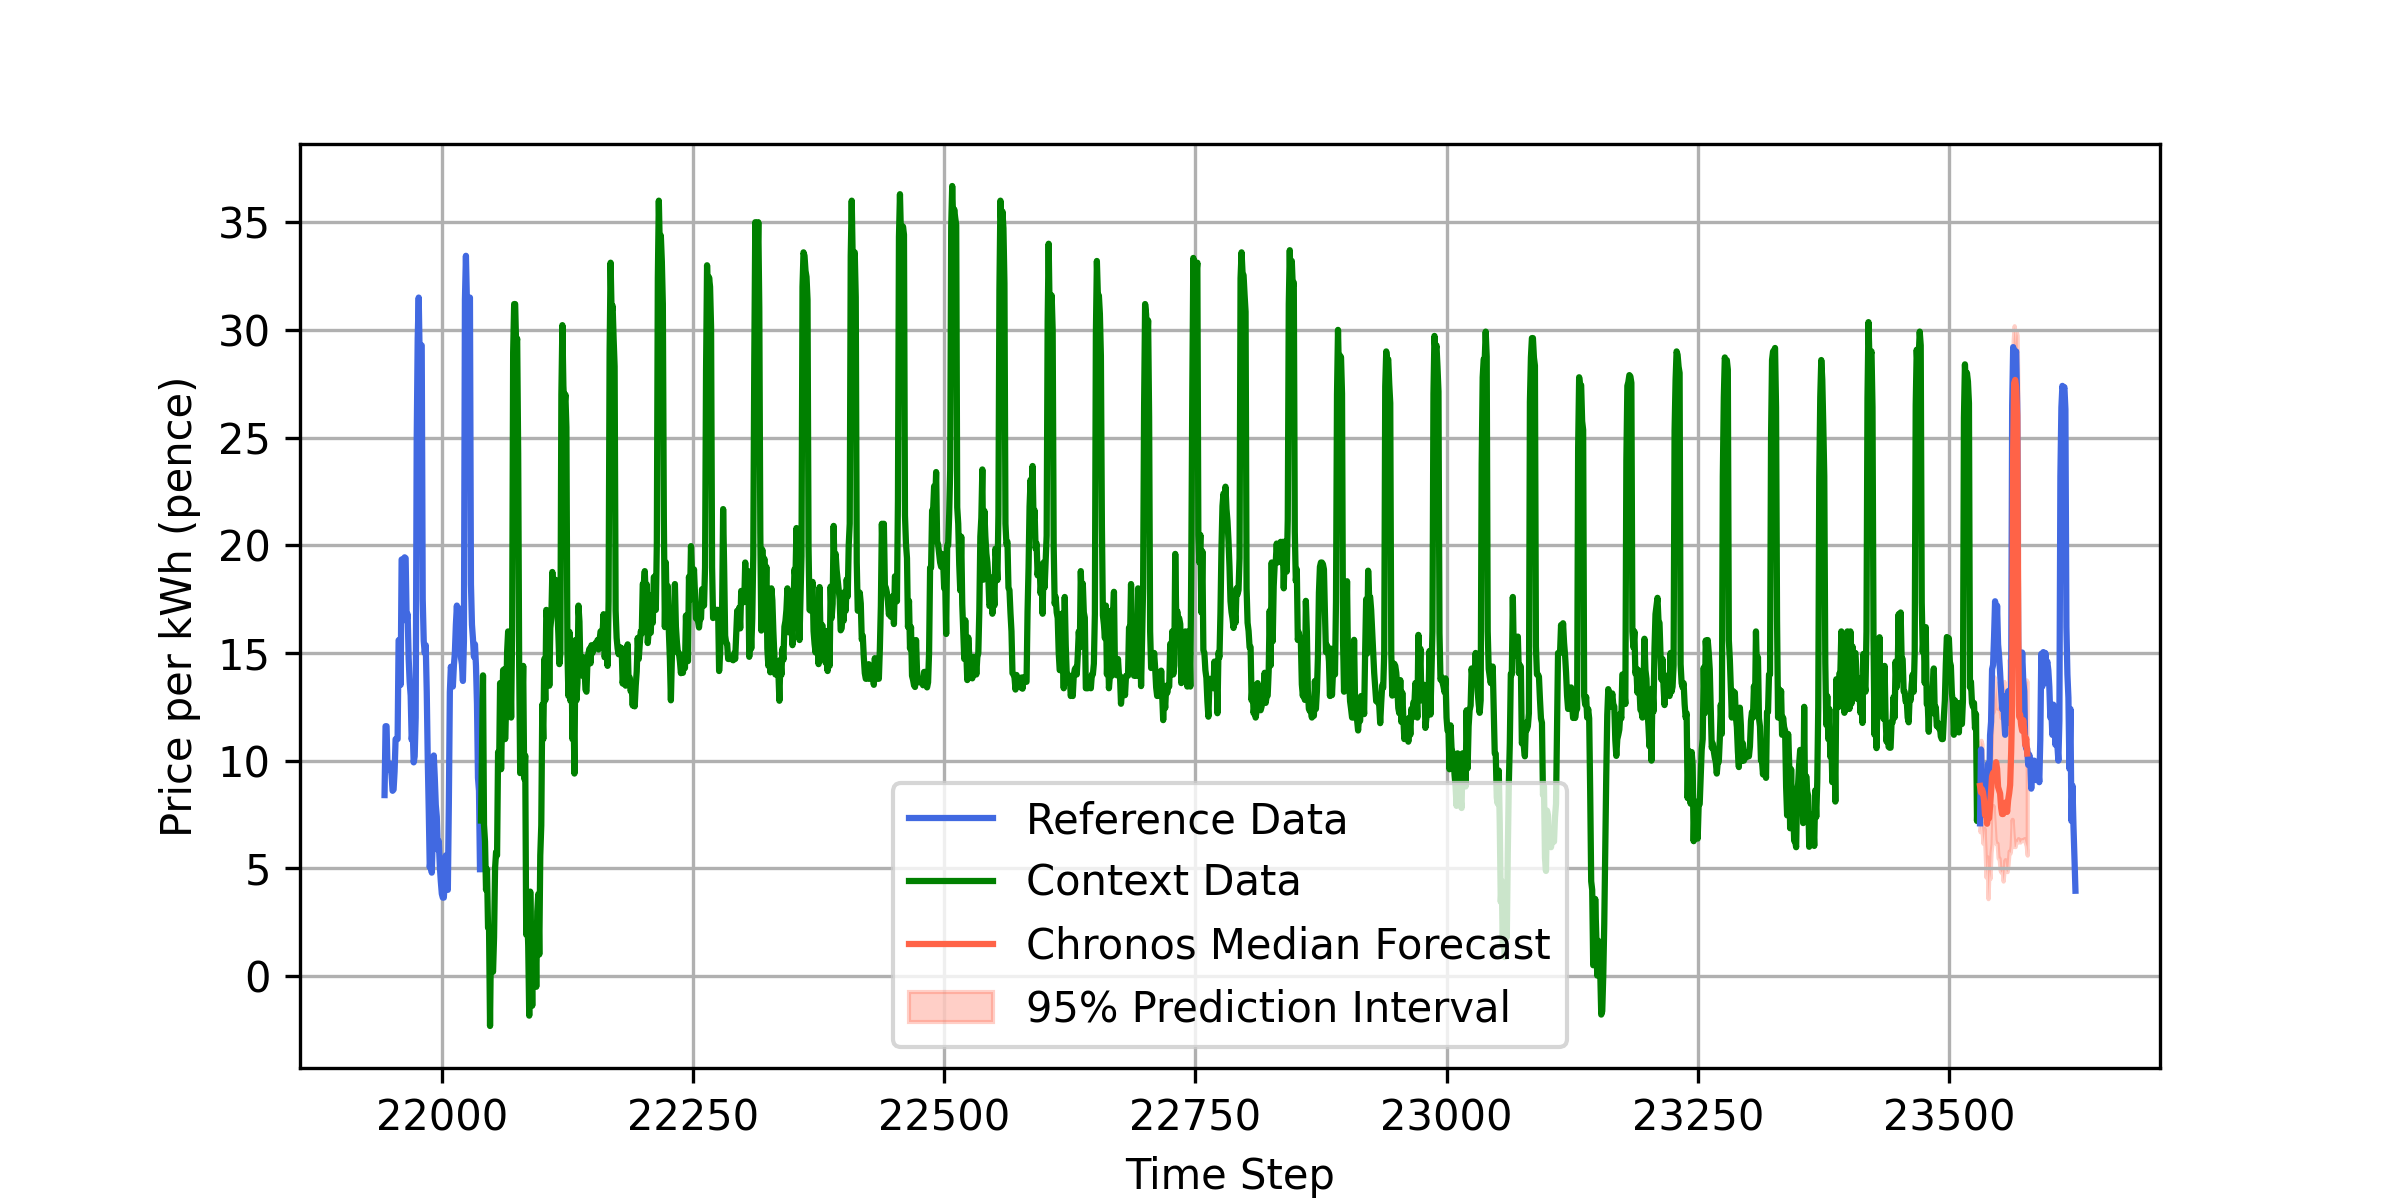
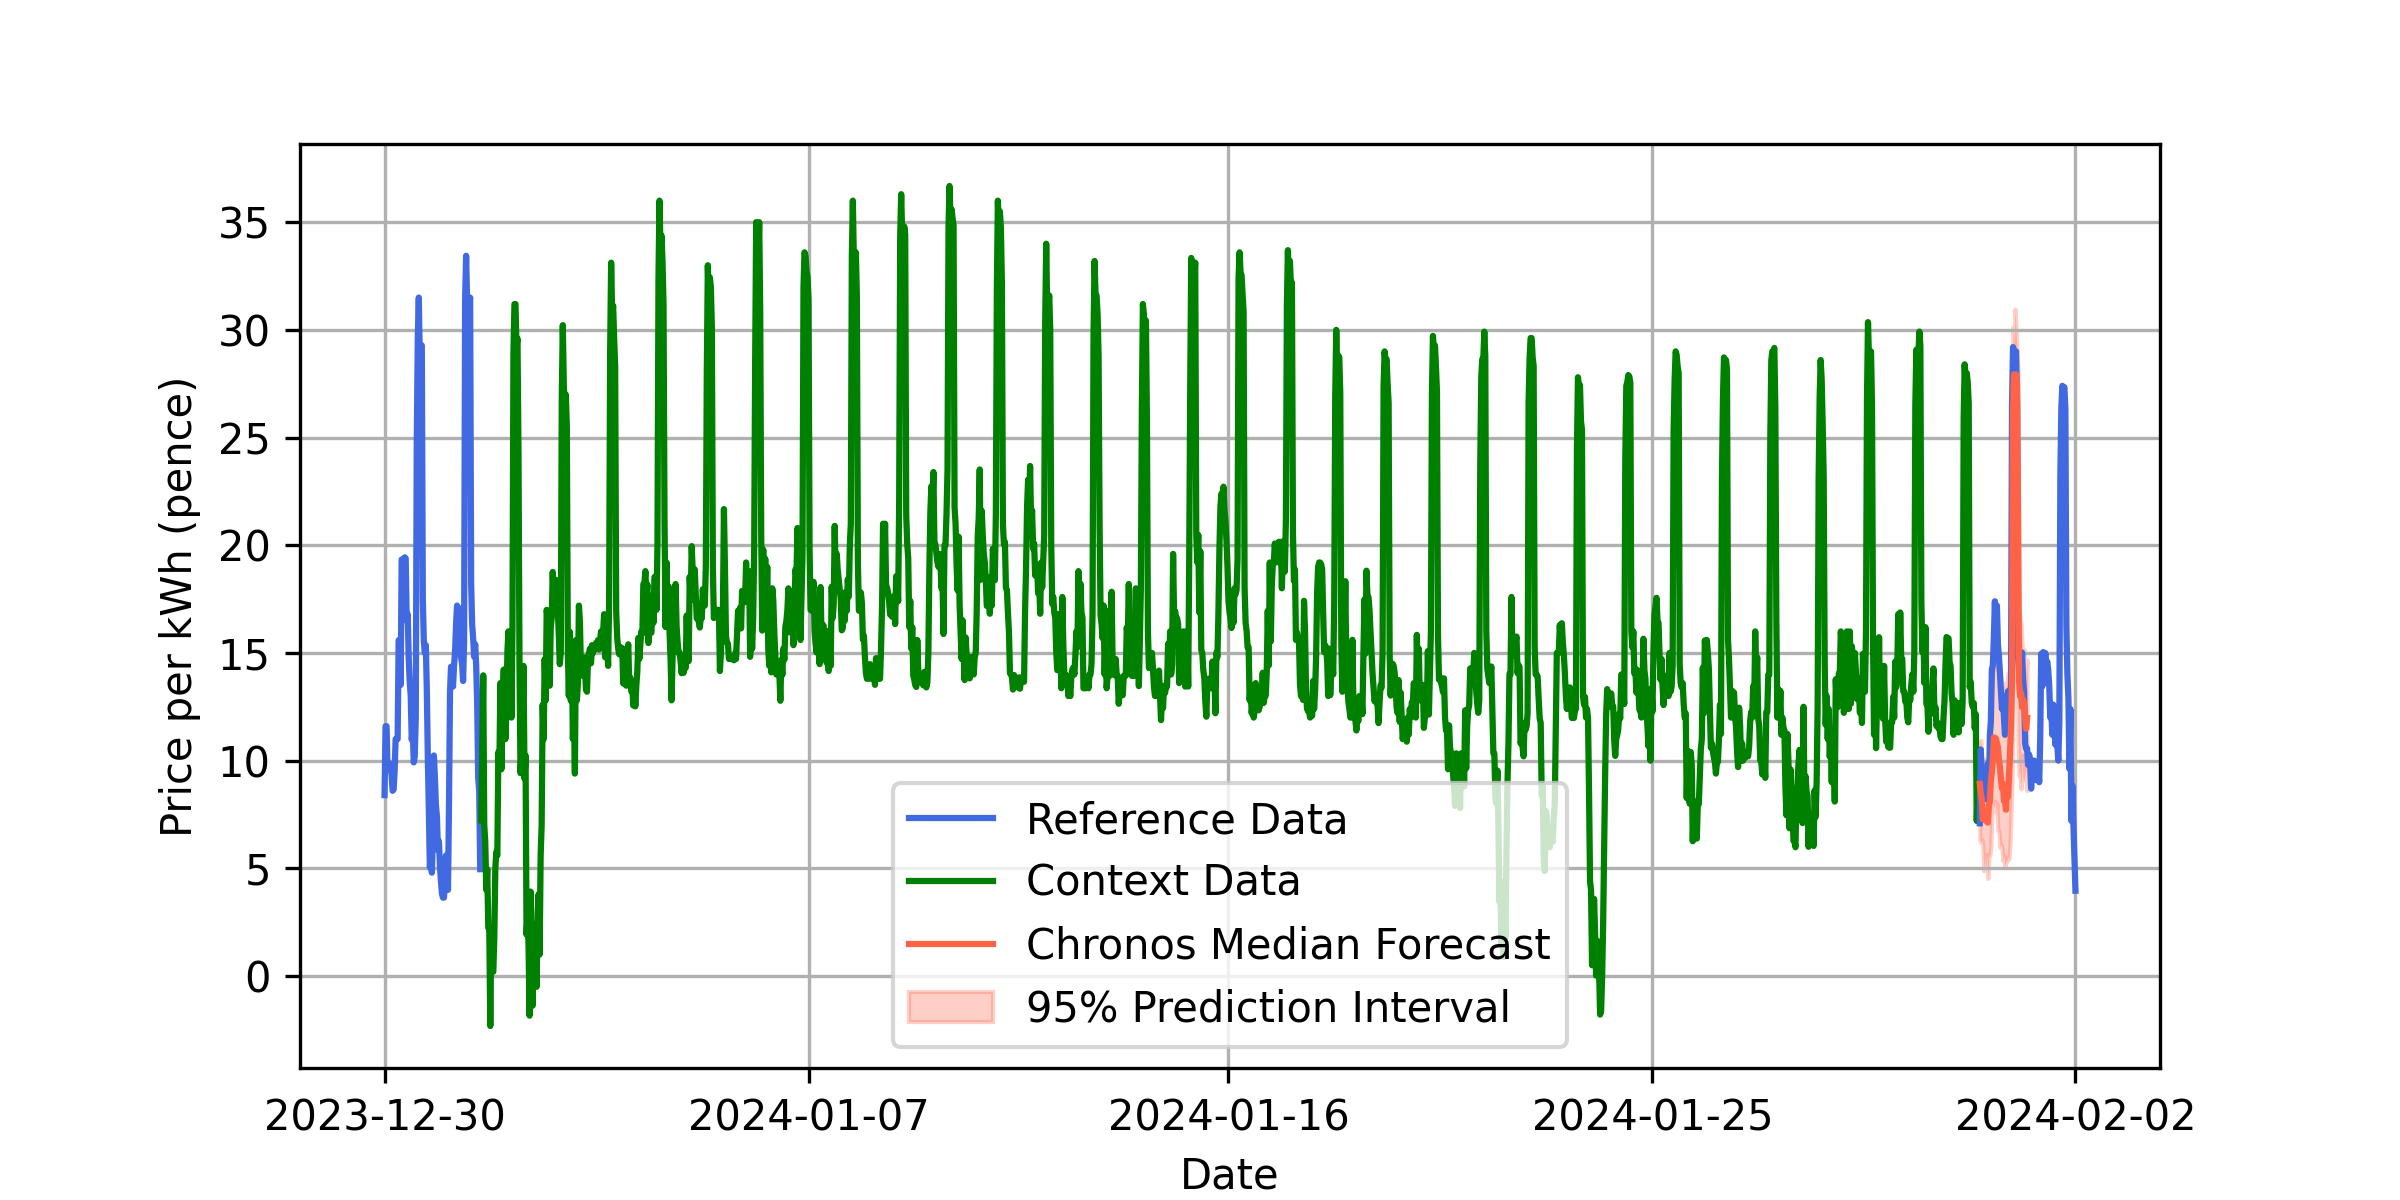
Added axes labels for plots

diff --git a/wrappers/arima_wrapper.py b/wrappers/arima_wrapper.py
@@ -1,6 +1,8 @@
 import matplotlib.pyplot as plt
 import pmdarima as pm
 import statsmodels.api as sm
+import utils
+import matplotlib.dates as mdates
 
 def arima_predict(df, column, training_start_index, training_end_index, prediction_length, plot=True, run_name=None):
     """
@@ -54,24 +56,52 @@ def arima_predict(df, column, training_start_index, training_end_index, predicti
 
     # Plot the original data and the forecast
     if plot:
-        # Plot a window of actual data two prediction windows to each side
+    # Define indices for plotting
         n = len(df)
         left_most_index = max(0, training_start_index - 2 * prediction_length)
         right_most_index = min(n, training_end_index + 2 * prediction_length)
+        
+        # Map indices to dates
+        reference_dates = [utils.map_timestep_to_date(idx) for idx in range(left_most_index, training_start_index)]
+        context_dates = [utils.map_timestep_to_date(idx) for idx in range(training_start_index, training_end_index)]
+        future_dates = [utils.map_timestep_to_date(idx) for idx in range(training_end_index, right_most_index)]
+        prediction_dates = [utils.map_timestep_to_date(idx) for idx in range(training_end_index, training_end_index + prediction_length)]
+        
+        # Combine all dates together to calculate tick positions
+        all_dates = reference_dates + context_dates + future_dates
 
+        # Calculate positions for 0%, 25%, 50%, 75%, and 100% of the date range
+        num_dates = len(all_dates)
+        ticks_positions = [
+            all_dates[0],                           # 0%
+            all_dates[num_dates // 4],              # 25%
+            all_dates[num_dates // 2],              # 50%
+            all_dates[3 * num_dates // 4],          # 75%
+            all_dates[-1]                           # 100%
+        ]
+        
+        # Plotting with dates on the x-axis
         plt.figure(figsize=(10, 5))
-        # plt.title("ARIMA Forecast")
-        plt.plot(df[column][left_most_index: training_start_index], color="royalblue", label="Historical Data")
-        plt.plot(df[column][training_start_index: training_end_index], color="green", label="Context Data")
-        plt.plot(df[column][forecast_index[0]:right_most_index], color="royalblue",)
-        plt.plot(forecast_index, arima_forecast, color="tomato", label="ARIMA Median Forecast")
-        plt.fill_between(forecast_index, conf_int.iloc[:, 0], conf_int.iloc[:, 1], color='tomato', alpha=0.2, label="95% Confidence Interval")
+        plt.plot(reference_dates, df[column][left_most_index:training_start_index], color="royalblue", label="Historical Data")
+        plt.plot(context_dates, df[column][training_start_index:training_end_index], color="green", label="Context Data")
+        plt.plot(future_dates, df[column][training_end_index:right_most_index], color="royalblue")
+        plt.plot(prediction_dates, arima_forecast, color="tomato", label="ARIMA Median Forecast")
+        plt.fill_between(prediction_dates, conf_int.iloc[:, 0], conf_int.iloc[:, 1], color='tomato', alpha=0.2, label="95% Confidence Interval")
+        
+        # Add legend, labels, and grid
         plt.legend()
-        plt.xlabel("Time Step")
-        plt.ylabel("Price per kWh (pence)")        
+        plt.xlabel("Date")
+        plt.ylabel("Price per kWh (pence)")
+        plt.grid()
+
+        # Set custom x-ticks at the calculated positions (5 ticks)
+        plt.gca().set_xticks(ticks_positions)
+
+        # Format the x-axis with date labels
+        plt.gca().xaxis.set_major_formatter(mdates.DateFormatter('%Y-%m-%d'))
+
         if run_name and type(run_name) == str and run_name != "":
-            plt.savefig(f"results/plots/arima_{run_name}.png", dpi=300)               
-        # plt.show() 
+            plt.savefig(f"results/plots/arima_{run_name}.png", dpi=300)
 
     return arima_forecast, stderr
 

diff --git a/wrappers/gp_wrapper.py b/wrappers/gp_wrapper.py
@@ -3,6 +3,8 @@ from sklearn.gaussian_process.kernels import RBF, ExpSineSquared, ConstantKernel
 import numpy as np
 import matplotlib.pyplot as plt
 from constants import *
+import utils
+import matplotlib.dates as mdates
 
 def gp_predict(df, column, training_start_index, training_end_index, prediction_length, plot=True, run_name=None):
     """
@@ -79,18 +81,43 @@ def gp_predict(df, column, training_start_index, training_end_index, prediction_
         left_most_index = max(0, training_start_index - 2 * prediction_length)
         right_most_index = min(n, training_end_index + 2 * prediction_length)
 
+        # Map time steps to dates
+        historical_dates = [utils.map_timestep_to_date(idx) for idx in range(left_most_index, training_start_index)]
+        context_dates = [utils.map_timestep_to_date(idx) for idx in range(training_start_index, training_end_index)]
+        forecast_dates = [utils.map_timestep_to_date(idx) for idx in range(forecast_index[0], right_most_index)]
+        prediction_dates = [utils.map_timestep_to_date(idx) for idx in forecast_index]
+
         plt.figure(figsize=(10, 5))
-        # plt.title("Gaussian Process Forecast")
-        plt.plot(df[column][left_most_index: training_start_index], color="royalblue", label="Historical Data")
-        plt.plot(df[column][training_start_index: training_end_index], color="green", label="Context Data")
-        plt.plot(df[column][forecast_index[0]: right_most_index], color="royalblue",)
-        plt.plot(forecast_index, y_pred_rescaled, color="tomato", label="GP (Composite Kernel) Forecast")
-        plt.fill_between(forecast_index, y_pred_rescaled - 1.96 * sigma_rescaled, y_pred_rescaled + 1.96 * sigma_rescaled, color='tomato', alpha=0.2, label="95% Confidence Interval")
+        plt.plot(historical_dates, df[column][left_most_index: training_start_index], color="royalblue", label="Historical Data")
+        plt.plot(context_dates, df[column][training_start_index: training_end_index], color="green", label="Context Data")
+        plt.plot(forecast_dates, df[column][forecast_index[0]: right_most_index], color="royalblue")
+        plt.plot(prediction_dates, y_pred_rescaled, color="tomato", label="GP (Composite Kernel) Forecast")
+        plt.fill_between(prediction_dates, y_pred_rescaled - 1.96 * sigma_rescaled, y_pred_rescaled + 1.96 * sigma_rescaled, color='tomato', alpha=0.2, label="95% Confidence Interval")
+
         plt.legend()
-        plt.xlabel("Time Step")
-        plt.ylabel("Price per kWh (pence)")        
+        plt.xlabel("Date")
+        plt.ylabel("Price per kWh (pence)")
+
+        # Combine all dates together to calculate tick positions
+        all_dates = historical_dates + context_dates + forecast_dates + prediction_dates
+
+        # Calculate positions for 0%, 25%, 50%, 75%, and 100% of the date range
+        num_dates = len(all_dates)
+        ticks_positions = [
+            all_dates[0],                           # 0%
+            all_dates[num_dates // 4],              # 25%
+            all_dates[num_dates // 2],              # 50%
+            all_dates[3 * num_dates // 4],          # 75%
+            all_dates[-1]                           # 100%
+        ]
+        # Set custom x-ticks at the calculated positions (5 ticks)
+        plt.gca().set_xticks(ticks_positions)                
+
+        # Format the x-axis with date labels
+        plt.gca().xaxis.set_major_formatter(mdates.DateFormatter('%Y-%m-%d'))
+
         if run_name and type(run_name) == str and run_name != "":
-            plt.savefig(f"results/plots/gp_{run_name}.png", dpi=300)         
-        # plt.show()       
+            plt.savefig(f"results/plots/gp_{run_name}.png", dpi=300)
+        # plt.show()   
 
     return y_pred_rescaled, sigma_rescaled

diff --git a/wrappers/chronos_wrapper.py b/wrappers/chronos_wrapper.py
@@ -105,10 +105,10 @@ def chronos_predict(input_data: [float], column: str,
       plt.figure(figsize=(8, 4))
     
       # Map time steps to corresponding dates
-      reference_dates = [utils.map_timestamp_to_date(idx) for idx in range(left_most_index, context_start_index)]
-      context_dates = [utils.map_timestamp_to_date(idx) for idx in range(context_start_index, context_end_index)]
-      future_dates = [utils.map_timestamp_to_date(idx) for idx in range(context_end_index, right_most_index)]
-      prediction_dates = [utils.map_timestamp_to_date(idx) for idx in range(context_end_index, context_end_index + num_median_predictions)]
+      reference_dates = [utils.map_timestep_to_date(idx) for idx in range(left_most_index, context_start_index)]
+      context_dates = [utils.map_timestep_to_date(idx) for idx in range(context_start_index, context_end_index)]
+      future_dates = [utils.map_timestep_to_date(idx) for idx in range(context_end_index, right_most_index)]
+      prediction_dates = [utils.map_timestep_to_date(idx) for idx in range(context_end_index, context_end_index + num_median_predictions)]
       
       # Combine all dates together to calculate tick positions
       all_dates = reference_dates + context_dates + future_dates

diff --git a/utils.py b/utils.py
@@ -13,7 +13,7 @@ import json
 import time
 import os
 
-def map_timestamp_to_date(row_index):
+def map_timestep_to_date(row_index):
     """
     Maps an integer row index to the corresponding date in the 'Valid_From_UTC' column.
     
